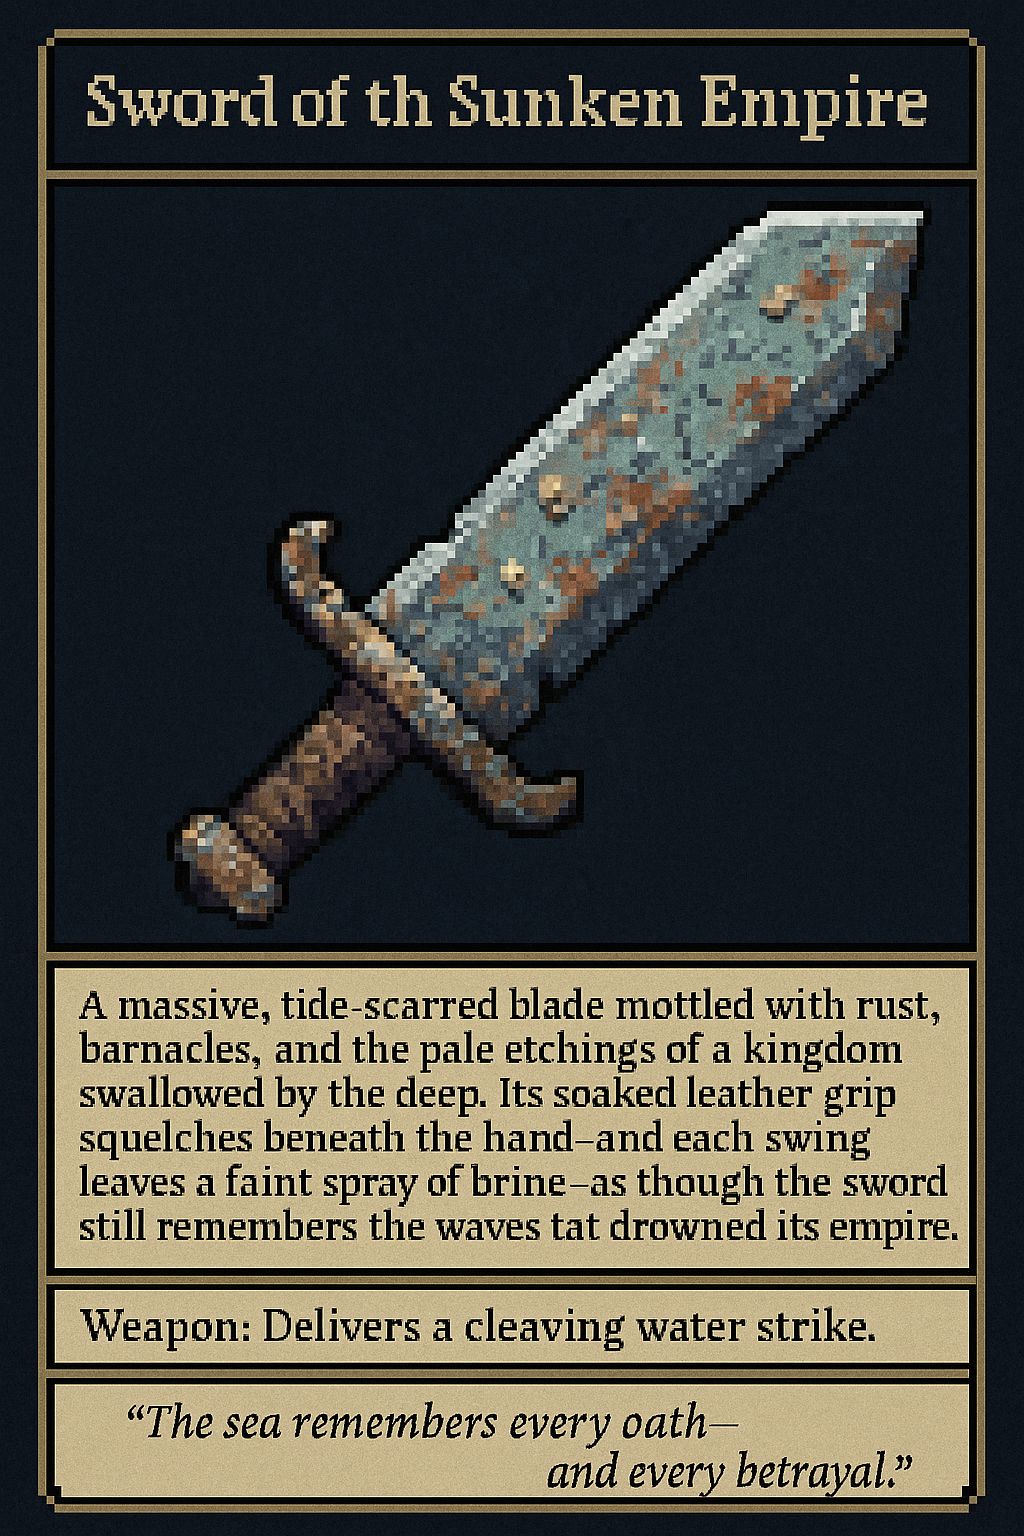
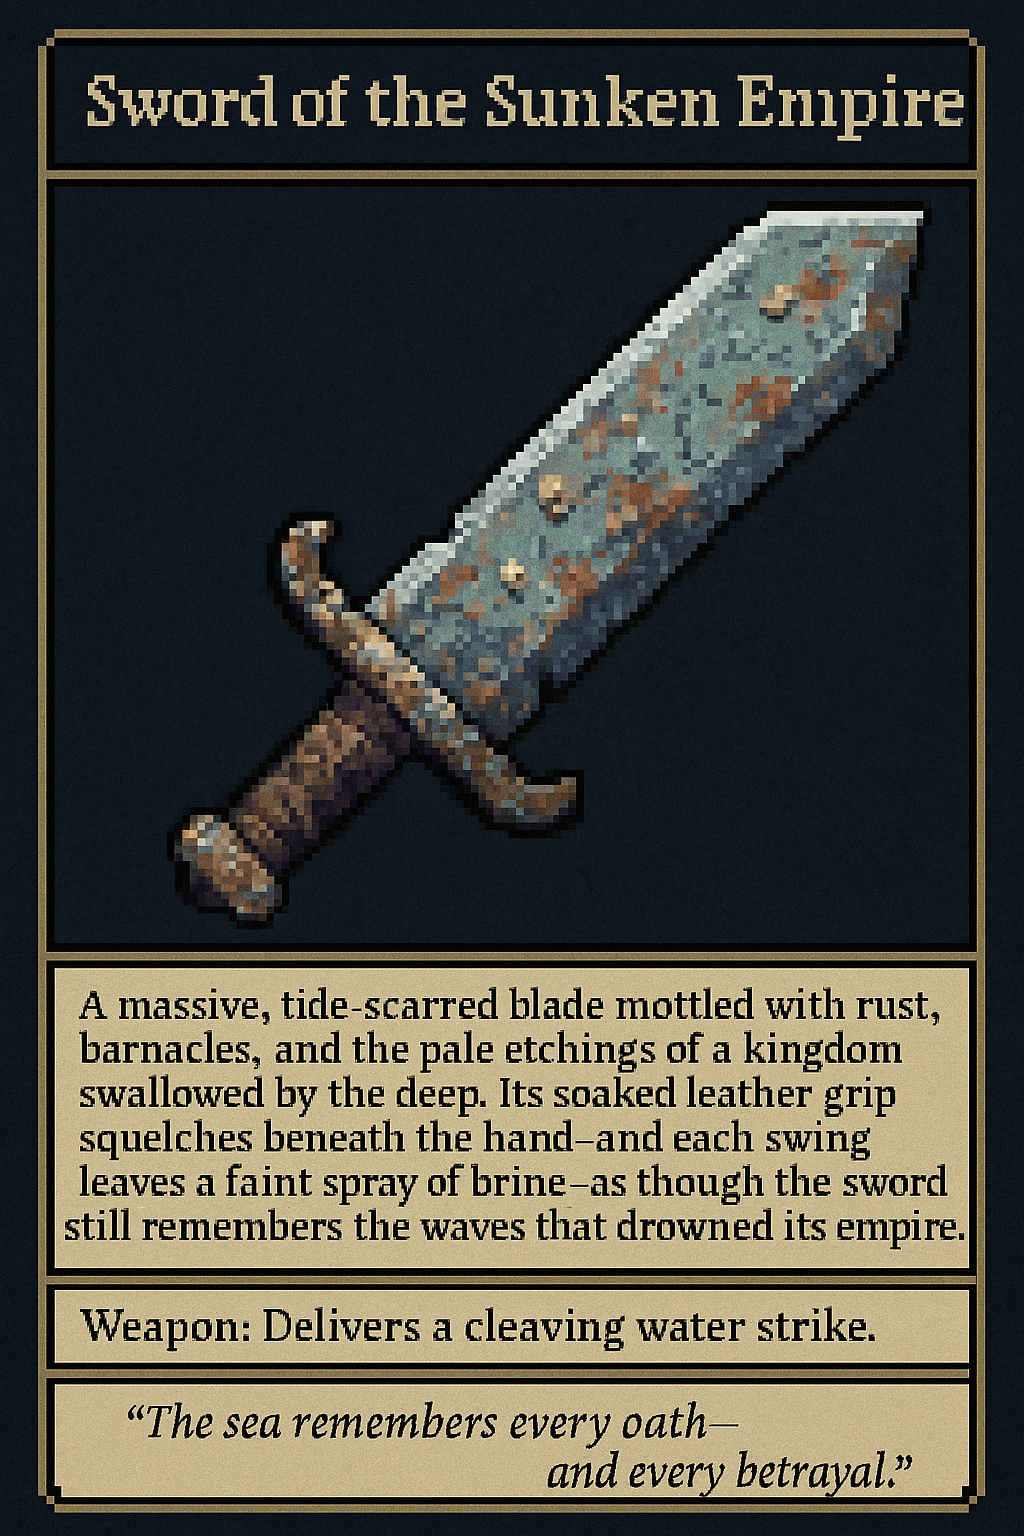
post-session updates--evershade

Changed region(s): [[0.4062, 0.0312, 0.9375, 0.0938], [0.0625, 0.7812, 0.9375, 0.8125]]

diff --git a/bellmead/trophy/campaign/bestiary/The Drowned King.md b/bellmead/trophy/campaign/bestiary/The Drowned King.md
@@ -1,8 +1,14 @@
-![[Drowned King-pixel-simple.png|300]]  ![[Drowned King-pixel-24bit-sword.webp|300]]
+![[b-drowned-king-rising.webp|300]]   ![[b-drowned-king-sword.webp|300]]
+{% if h != "hide" %} Endurance 10 {% endif %}
 
-Endurance 10
+_Once a noble ruler, the Drowned King came to Jorando to atone for his sins, but it was too late and he was cursed by the gods for his hubris and now wanders the marshes, twisted by the waters that claimed his life. His body is bloated, adorned in tattered, waterlogged finery. His crown, a symbol of lost glory, is rusted and fused to his skull. He drags a massive sword covered in [[Marrow Cling]] that seems impossibly heavy, but he wields it with terrifying ease. His eyes glow with a sickly green light, and the air around him is filled with the stench of decay._
 
-_Once a noble ruler of Kalduhr, the Drowned King came to Jorando to atone for his sins, but it was too late and he was cursed by the gods for his hubris and now wanders the marshes, twisted by the waters that claimed his life. His body is bloated, adorned in tattered, waterlogged finery. His crown, a symbol of lost glory, is rusted and fused to his skull. He drags a massive sword covered in [[Marrow Cling]] that seems impossibly heavy, but he wields it with terrifying ease. His eyes glow with a sickly green light, and the air around him is filled with the stench of decay._
+He wore his guilt in the barnacles that grew from the scars of his self flagellation. 
+#### Dropped:
+* 
+* [[Echo of a King's Guilt]]
+
+{% if h != "hide" %}
 
 **Lore:**
 - Legends tell of the Drowned King’s hubris during the **Sundering**. Stories differ, some say he came to the marshes to atone for his sins against his people, while others claim he came to the marsh seeking forbidden power. Either way, his attempts at redemption led to him being bound to the marsh: a tragic, cursed figure. His presence is said to ensure no one disturbs the dark secrets buried in the heart of Jorando.
@@ -40,3 +46,5 @@ _A heavy blade, its surface mottled with rust, barnacles, and salt-stained etchi
 > “The sea remembers every oath—and every betrayal.”
 
 **Weapon**: Delivers a cleaving water strike, +1 to 1 black die result. +1 to all black die results against fire-based enemies.
+
+ {% endif %}

diff --git a/bellmead/trophy/jorando/session_zero/Evershade Session Notes.md b/bellmead/trophy/jorando/session_zero/Evershade Session Notes.md
@@ -10,11 +10,11 @@ How do I give them an opportunity to use their rituals
 - [ ] The Hollowed Priests and the nature of the Church
 - [ ] The Corruption of the [[Lake of Tears]]
 - [ ] [[Alaric and Liorna]]
-- [ ] [[The Shattered Legion]] Should I still do this?
+- [x] [[The Shattered Legion]] They have now been named and encountered
 - [ ] The Shade and the Well
 #### Set progression:
-- [ ] Bonfire -- can spend 1 gold to repair 1 armor. You DO NOT recover RUIN.
-- [ ] [[Shattered Legion Camp]]
+- [x] Bonfire -- can spend 1 gold to repair 1 armor. You DO NOT recover RUIN.
+- [x] [[Shattered Legion Camp]]
 - [ ] [[The Hollowed Tavern]]
 	- [ ] Sleep there
 - [ ] [[The Silent Graveyard]]
@@ -28,7 +28,16 @@ How do I give them an opportunity to use their rituals
 - [ ] Weeping Well entrance (no ladder, but built in rungs on the inside--not easy to see)
 - [ ] Establishing shot, minimizing the well
 - [ ] Rework the Hidden Crypt to be the Bell Tower quest.
+- [ ] Fix Crown of Drowned Kinng and Sword of th Sunken Empire
+- [ ] bottle of salted Flame... make an asset. 
+- [ ] silver locket
+- [ ] dreams
+- [ ] Update [[Vero (Pete)]]'s image
 #### Cool shit to add to lore and otherwise
+- [ ] The reverie turned tragic as the wedding toast turned to a memorial after his daughter choked
+- [ ] [[Benah (Mark)]] saw a vision of the destruction of Evershade, the Shattered Legion tromping through.
+- [ ] [[Aram (Brad)]] now has a condition: haunted. The toasting father is staying with him
+- [ ] [[Vero (Pete)]] added the [[Marrow Cling]] to the Crown of the Drowned King; he failed his roll in trying to make it do anything, but as a result of the Devil's bargain, it is not attached to his head/face.
 
 What are the most important things about Evershade?
 - Echo of Alaric

diff --git a/bellmead/trophy/jorando/sets/Evershade/The Hollowed Tavern.md b/bellmead/trophy/jorando/sets/Evershade/The Hollowed Tavern.md
@@ -1,8 +1,7 @@
+The Wandering Eye
+
 ![[ev-tavern-external.png|300]] ![[ev-tavern-internal.png|300]]
-![[l-tavern-mirror.png]]
 ![[l-tavern-hostel.png]]
-
-
 
 _Once the center of the village, the Hollowed Tavern was a place of warmth, drink, and stories. Now, it stands as a rotting husk of itself—its wooden beams swollen with moisture, the hearth cold, and chairs collapsed in disuse. Yet the air here feels thicker, heavier, as if memory itself lingers like smoke. Sometimes, on the edge of hearing, the crack of a tankard or the lilt of a love song flickers through the silence._
 

diff --git a/bellmead/trophy/campaign/items/Crown of the Drowned King.md b/bellmead/trophy/campaign/items/Crown of the Drowned King.md
@@ -1,0 +1,8 @@
+![[i-crown-of-the-drowned-king.png|300]]
+A tarnished, barnacle-crusted crown once adorned a noble ruler's brow. Its faint green glow whispers of both regal power and the crushing weight of eternal stewardship.
+
+_"To wear the crown is to bear the weight of every soul it protects--and fails."_
+
+**Armor:** Grants resistance to water-based attacks, but slowly corrupts.
+
+**NOTES:** Now covered in [[Marrow Cling]] and attached to [[Vero (Pete)]]'s head.

diff --git a/bellmead/trophy/campaign/items/Sword of the Sunken Empire.md b/bellmead/trophy/campaign/items/Sword of the Sunken Empire.md
@@ -1,0 +1,6 @@
+![[i-sword-of-the-sunken-empire.png|300]]
+A massive, tide-scarred blade mottled with rust, barnacles, and the pale etchings of a kingdom swallowed by the deep. Its soaked leather grip squelches beneath the hand-and each swing leaves a faint spray of brine-as though the sword still remembers the waves that drowned its empire.
+
+_"The sea remembers every oath-and every betrayal."_
+
+**Weapons:** Delivers a cleaving water strike.

diff --git a/bellmead/trophy/campaign/items/Echo of a King's Guilt.md b/bellmead/trophy/campaign/items/Echo of a King's Guilt.md
@@ -1,0 +1,9 @@
+![[i-echo-of-kings-guilt.png|300]]
+
+A jagged piece of the throne of the Drowned King, who could not save his people when the water swept in. Whether through command or inaction, none can say, but their cries now linger in the drowned wood, calling him to a throne of silt and bone.
+
+_"I head them still, asking why I didn't protect them."_
+ 
+ {% if h != 'hide' %}
+ 
+ {% endif %}

diff --git a/bellmead/trophy/campaign/players/Vero (Pete).md b/bellmead/trophy/campaign/players/Vero (Pete).md
@@ -1,4 +1,4 @@
-![[char-vero.png]]
+![[char-vero-crown.png|300]]
 
 Is: Lockpick — acrobatics, security, silence
 Was: Reformed Thug — intimidation
@@ -22,4 +22,12 @@ Debt: rock bottom.
 
 Reason: got nothing to lose.
 
-Shard of the Sundering Bell
+[[Shard of the Sundering Bell]]
+Crown of the Drowned King
+
+Condition: Crabbed
+
+{% if h != 'hide' %}
+![[char-vero.png]]
+
+{% endif %}

diff --git a/bellmead/trophy/jorando/Notes.md b/bellmead/trophy/jorando/Notes.md
@@ -73,7 +73,16 @@ Ending at the boss fight.
 
 ---
 
+Mudcrab Claw - Carbitha
 
+Traitor / failure 
 
+Z sees like a flagulated scarred body. 
 
+Vero upgraded Crown with Marrow Cling -- failed, so it does... something. Permanently attached to Vero
 
+The Wandering Eye
+
+Z sees the Shattered Legion... 
+
+Aram will always have the weeping father around. 

diff --git a/bellmead/trophy/campaign/players/Valen (Philip).md b/bellmead/trophy/campaign/players/Valen (Philip).md
@@ -17,10 +17,14 @@ Armor: Ornate Cuirass
 Rituals: (1)
 Feather — reduce the density of an object
 
-Memento: lucky token (dabloon)
+Memento: lucky token (doubloon)
 
 Debt: caught throwing fights
 
 Reason: fighting/melee --Shima's festival is the ultimate goal
 
-Oil of Oltuun
+
+{% if h != 'hide' %}
+
+
+{% endif %}

diff --git a/bellmead/trophy/campaign/items/items.md b/bellmead/trophy/campaign/items/items.md
@@ -18,4 +18,8 @@
 ![[i-oil-of-oltuun.png|300]]  [[Oil of Oltuun]]
 
 ### Echoes:
-![[i-echo-silent-vigil.png|300]] [[Echo of the Silent Vigil]]
+![[i-echo-silent-vigil.png|300]] 
+[[Echo of the Silent Vigil]]
+
+![[i-echo-of-kings-guilt.png|300]]
+[[Echo of a King's Guilt]]

diff --git a/bellmead/trophy/campaign/players/Aram (Brad).md b/bellmead/trophy/campaign/players/Aram (Brad).md
@@ -24,3 +24,11 @@ Debt: bought a Bezoar's stone to cover debts, that's put the family business in 
 Reason: benefactor is debtor... The Saint... forgery  
   
 [[Chalice of Rhaskor]]
+
+Condition: Haunted
+
+
+{% if h != 'hide' %}
+
+
+{% endif %}

diff --git a/bellmead/trophy/campaign/Lore.md b/bellmead/trophy/campaign/Lore.md
@@ -8,3 +8,5 @@ _"To allow souls to unburden themselves... to allow me to take it for myself... 
 [[Aelitha Note]]
 
 [[Waterlogged Journal]] Entries
+
+The Shattered Legion had a hand in the downfall of [[Evershade]]
